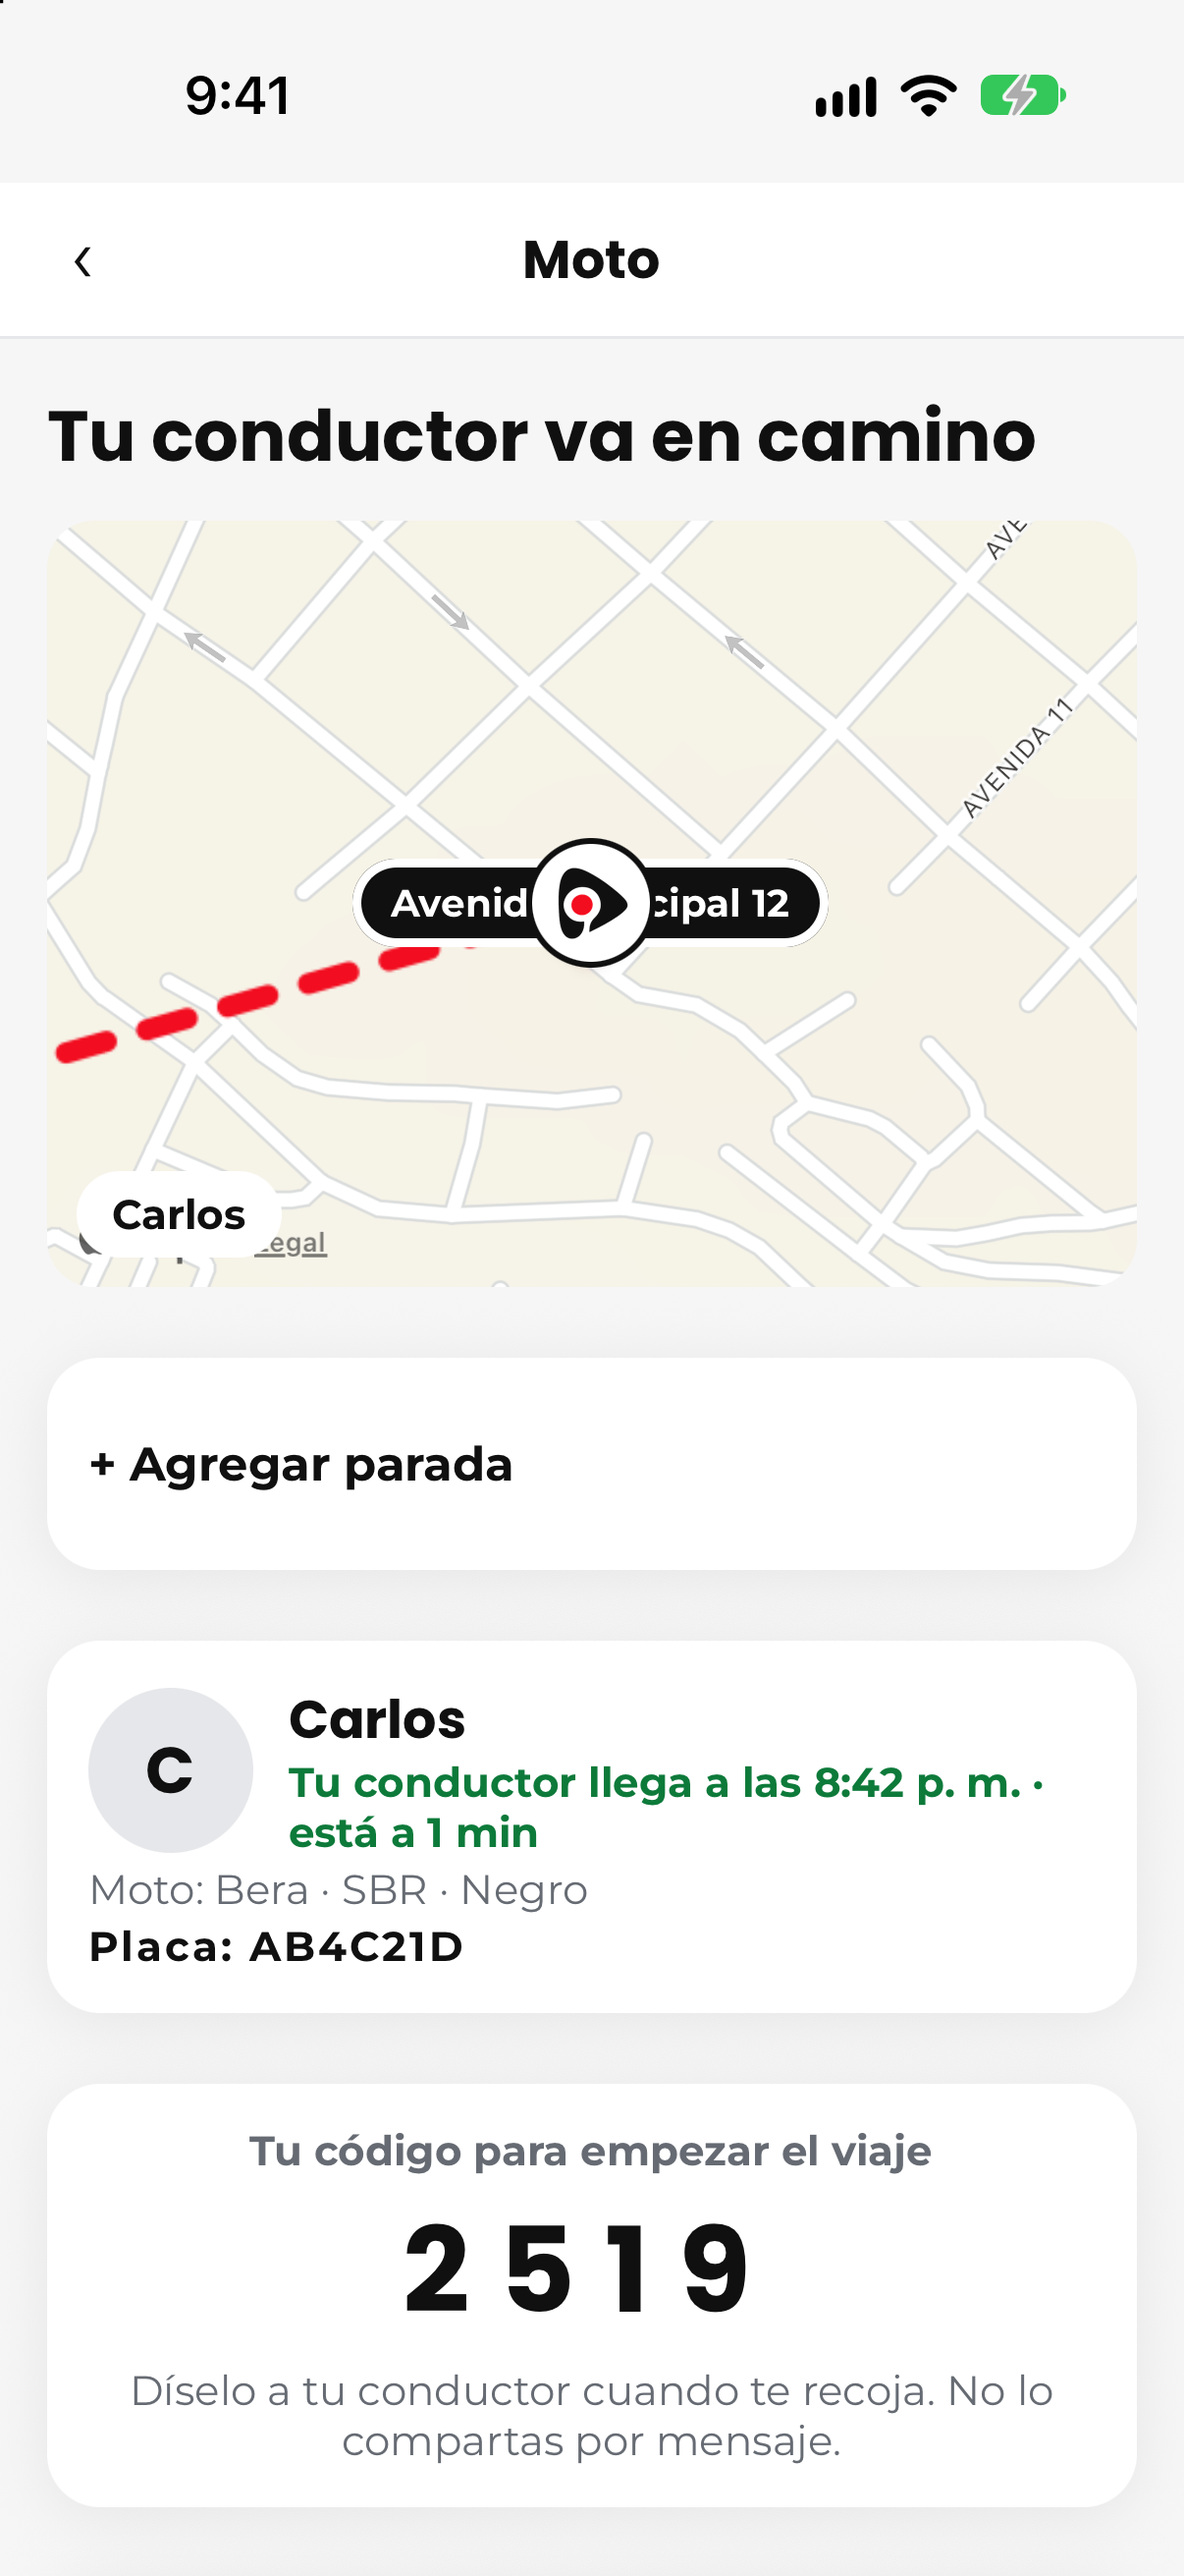
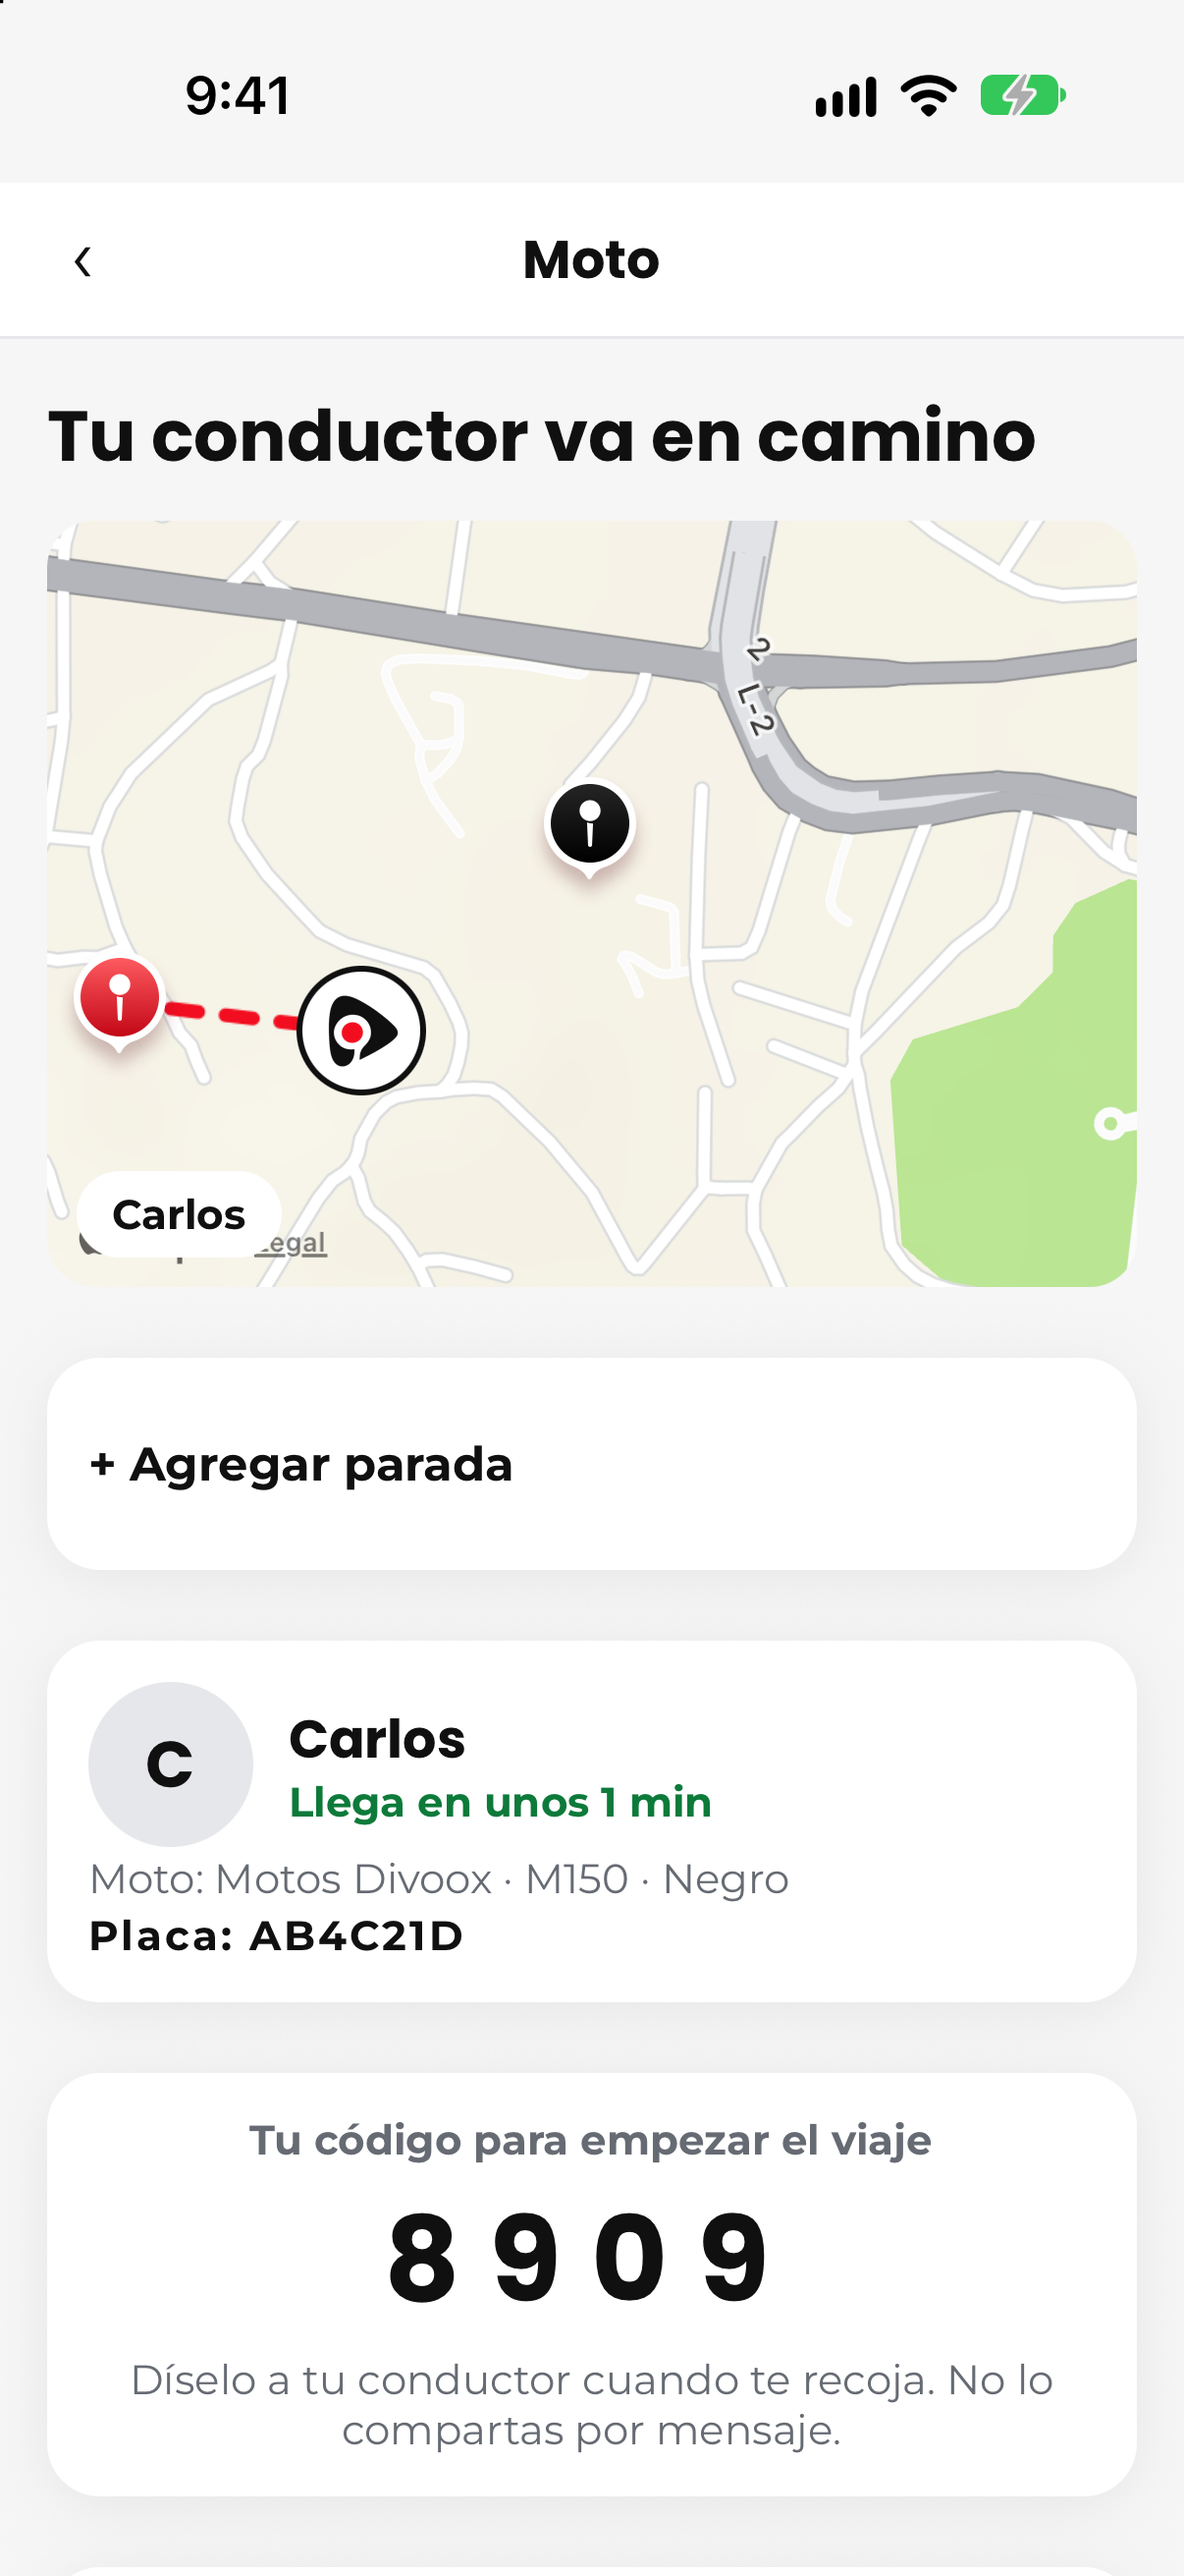
docs(videos): las tres pantallas del cliente que mostraban la marca de motos de la competencia, rehechas con «Motos Divoox M150» (C-SIN-MARCA-COMPETENCIA) — todos los países

diff --git a/docs/videos/llegada-el-vigia/LEEME.md b/docs/videos/llegada-el-vigia/LEEME.md
@@ -191,3 +191,13 @@ App Divoox Driver de pruebas, versión 0.1.59 (la del paquete 13, compilada desd
 - Para guardar el código, la cuenta de la pasajera necesita un celular en su perfil y el aparato en la petición: se le puso un número ficticio y, al terminar, se le quitó y se le devolvió el permiso de SMS.
 - Regalo temporal BIENVENIDA4 (los tres anteriores ya estaban usados); los cuatro quedaron apagados.
 - Queda de la sexta pasada: el regalo de BIENVENIDA3 está «en revisión» (aquel viaje se hizo sin moverse) y conserva su dólar apartado hasta que el equipo lo apruebe o lo rechace. La salud del sitio de pruebas sigue en verde.
+
+## Octava pasada (corta): la moto de ejemplo ya no nombra ninguna marca ajena (22 nov 2026)
+
+Se rehicieron tres pantallas del cliente, con el mismo nombre, en el mismo simulador de iPhone y contra el sitio de pruebas. La moto del conductor dice «Motos Divoox · M150 · Negro» (C-SIN-MARCA-COMPETENCIA). Mismos datos genéricos: conductor Carlos, placa inventada, «Avenida Principal 12» y «Plaza Central», mapa acercado sin nombre de ciudad.
+
+- 08-mototaxi-en-camino-mapa: «Tu conductor va en camino», mapa con la línea hasta la recogida y el código del viaje.
+- 09-viaje-en-curso-mapa: «Vas en camino a tu destino», con el precio fijo y su equivalente en bolívares a la tasa oficial del sitio de pruebas.
+- 18a-envio-seguimiento: «Tu paquete va en camino», documentos para Ana Perez con su PIN de entrega.
+
+Lo que se cambió en el sitio de pruebas para tomarlas (nombre y placa del conductor demo, y la etiqueta de precio de prueba) se devolvió al terminar; el viaje y el envío quedaron cerrados.
